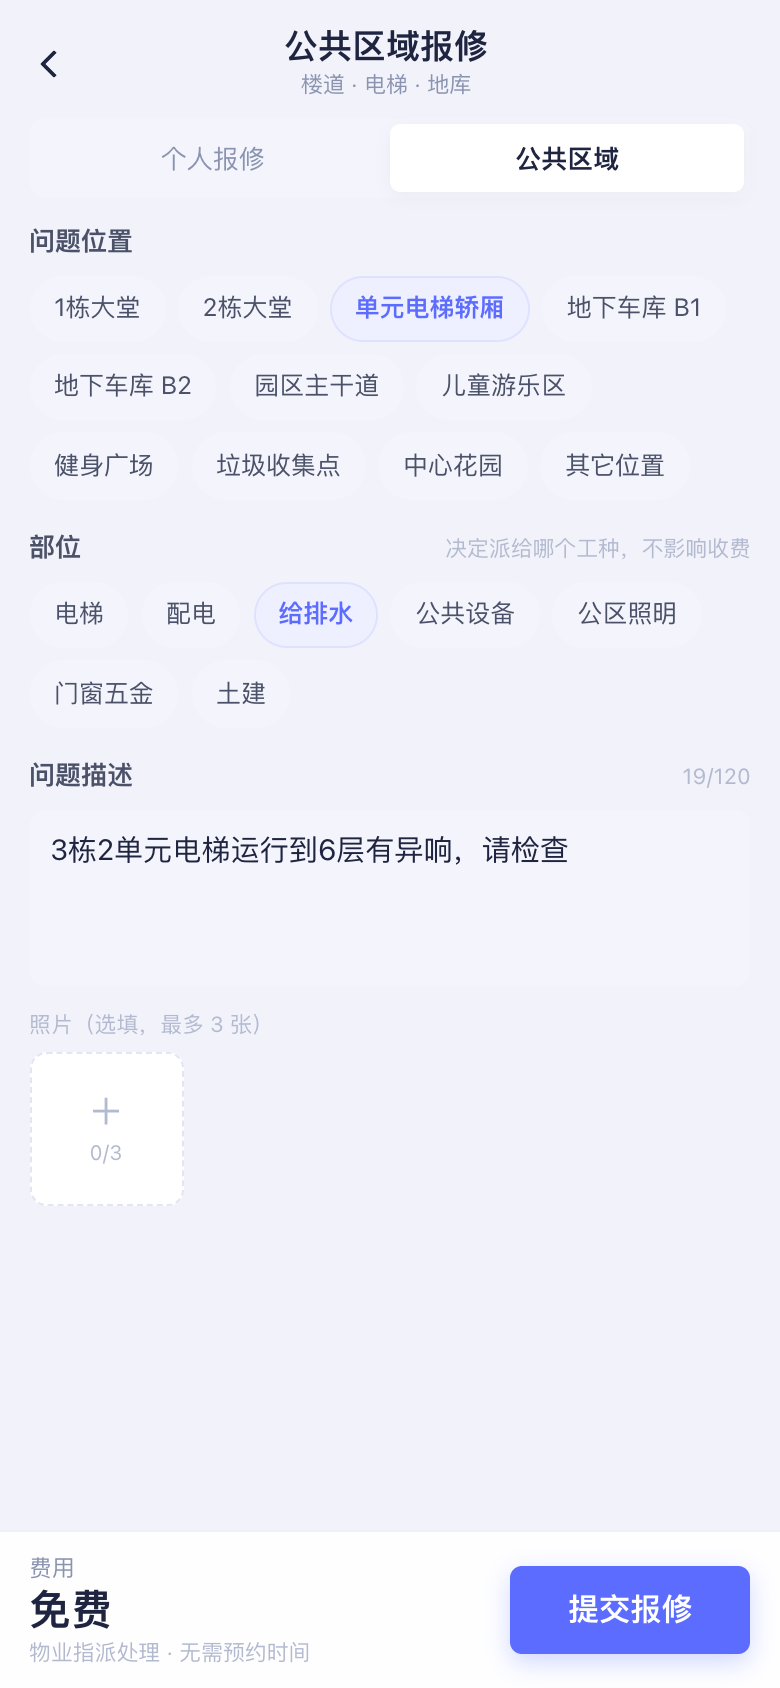
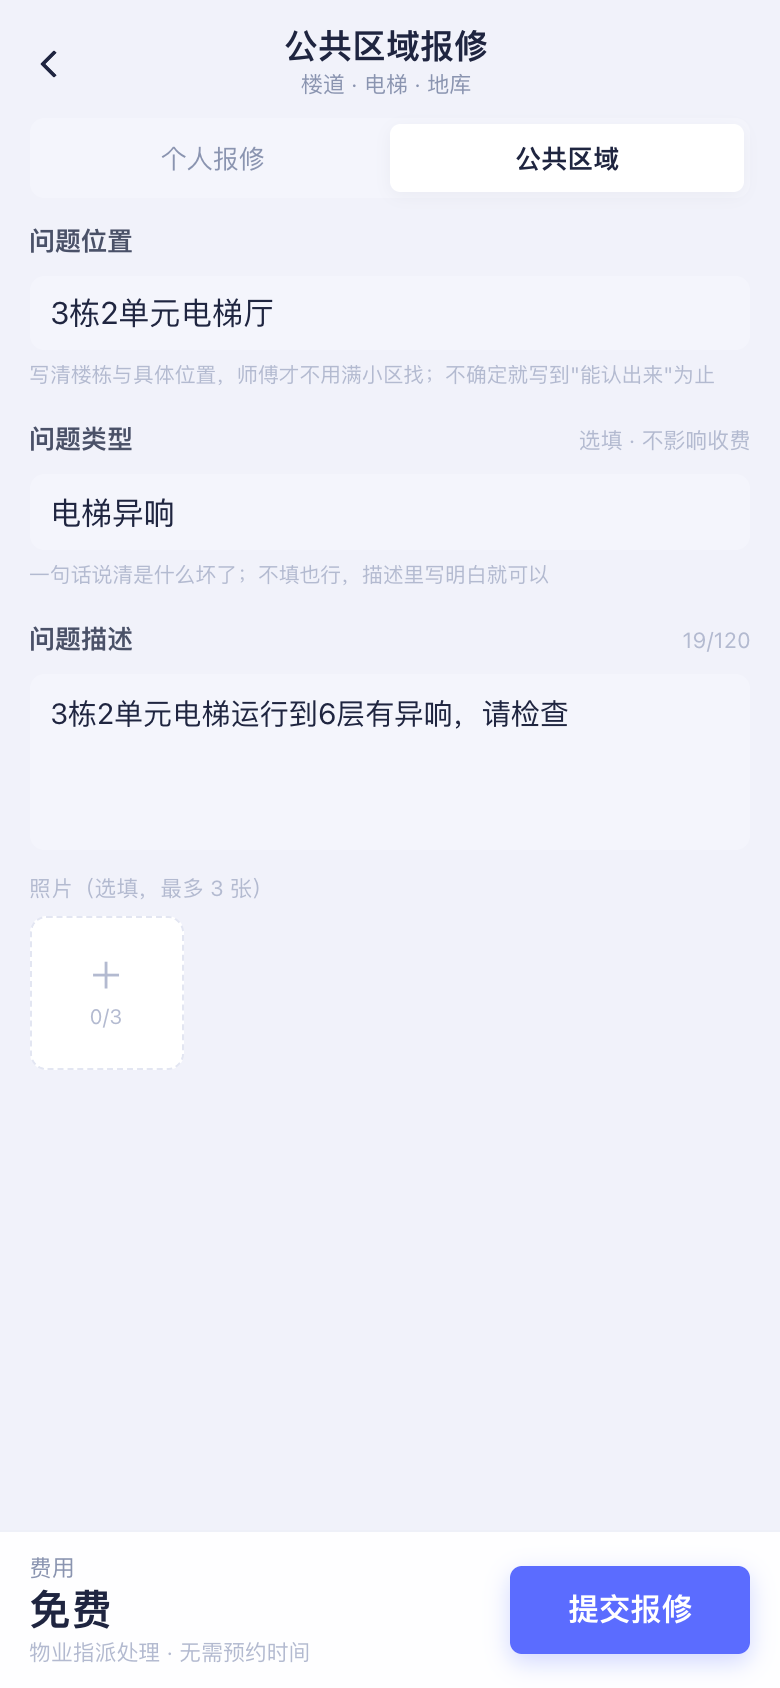
feat(报修): 公共区域改成纯表单 · 位置与问题类型都不再锁死
上一版给公共线做了两组快捷选项（位置 10 个 chip + 部位 7 个 chip + 「其它位置」）。
用下来是反的：**快捷没有省事，反而把填写锁死了**。

- 位置固定 10 个：小区角落远不止 10 个，业主找不到就得先点「其它位置」再输一遍，
  比直接打字多一步；
- 部位固定 7 个枚举：业主不是专业人士，不会把"电梯运行到 6 层会顿一下"翻译成「电梯」，
  勉强选一个等于给后台一个假分类。

现在就是一张表：**问题位置（输入）→ 问题类型（输入，选填）→ 问题描述 → 照片**。
`PUBLIC_PLACES` 常量已删除。

**契约口径随之调整**：`category` 从「部位枚举」改成「业主写的原文」。
理由是分工 —— 业主写他看到的，**归类是前台受理的活**。

代价写清楚，不藏：`category` 不是标准部位时，后台 `laborPointWeight()` 取不到，
落默认 1.0。**宁可权重偏低，也不要一个假分类。** 传标准部位仍然有效（权重能取到）。

服务端三条：类型 ≤20 字（超了 422）、空值落「公共设备」、**不做白名单校验**。
用例扩到 11 个断言：原文保存、不填落公共设备、超 20 字 422、标准部位原样保留、
以及个人单缺价目仍 422。

详情页补一处：公共单没有价目项，原来 `houseName · priceName` 只剩位置，
业主填的类型看不到。现在显示 `· {{ category }}`。

顺手修一条**只在 dev 红的**冒烟断言：「我的页显示认证身份 / 七格入口齐全」在 goto 后
立刻断言，dev 现编译模块 900ms 不够（dist 一直够，所以容易被当成环境问题放过）。
改成 `waitText`。

批次: 无
影响: 04-契约, 06-业主端小程序, 02-原型设计
验证: 04 test 287/287 · 契约 308 路径/354 接口/388 schema/0 悬空 · 06 check:data · build:h5 · smoke dev 99/99 + dist 99/99 · 公共线走查 12/12（api-g-47~49）
BREAKING: 无

diff --git a/06-业主端小程序/src/pages/repair/create.vue b/06-业主端小程序/src/pages/repair/create.vue
@@ -2,14 +2,18 @@
   我要报修（个人 / 公共两条线）
   ------------------------------------------------------------
   个人：选房 → 价目项目（下单即见价）→ 1 小时时段 → 描述 + 照片 → 提交并支付
-  公共：选位置（快捷 + 可手填）→ 部位 → 描述 + 照片 → 提交（免费，不支付）
+  公共：位置 → 问题类型 → 描述 + 照片 → 提交（免费，不支付）
 
   两条线**要的东西不一样**，2026-11-11 按实际数据与业务分了家：
     · 公共区域维修由物业出人出料，没有价目项 —— 不再让业主先挑一个收费项目再免费处理；
       也不要求预约时段（样例里 75 张公共单没有一张有预约时间）。
-    · 但**部位**要留（电梯 / 配电 / 给排水…）：它决定派给哪个工种，
-      也是工时积分的权重来源。部位不是"项目"，选了不影响收费。
-    · 位置除了 10 个高频快捷项，必须能自己填 —— 小区总有列表没覆盖的角落（消防通道、屋面）。
+
+  2026-11-12 又改了一次：**位置与类型都改成纯输入框**，取消快捷 chip。
+  原因不是"快捷不好看"，而是它把两件事锁死了：
+    · 位置固定 10 个 —— 小区里的角落远不止 10 个，业主找不到就只能编，写进「其它位置」
+      反而多一步；不如一进来就是一个空输入框。
+    · 类型固定 7 个「部位」—— 业主不是专业人士，不会把"电梯有异响"翻译成「电梯」。
+      让他自己写，前台受理时归类，这才是真实分工（归类本来就是物业的活）。
 
   个人项目按分类折叠 + 搜索：现在只有 10 项，但项目是会加的，
   一次摊开几十项就没法选了。默认展开前 3 类，搜索时全部展开。
@@ -34,39 +38,33 @@
           </view>
         </view>
         <template v-else>
-          <view class="rc__places">
-            <view
-              v-for="p in PUBLIC_PLACES"
-              :key="p"
-              class="chip"
-              :class="{ 'is-on': !useOther && placePick === p }"
-              @tap="pickPlace(p)"
-            ><text>{{ p }}</text></view>
-            <view id="place-other" class="chip" :class="{ 'is-on': useOther }" @tap="pickOther"><text>其它位置</text></view>
-          </view>
-          <view v-if="useOther" class="rc__other">
-            <input
-              id="place-input"
-              v-model="placeOther"
-              class="field__input field__input--boxed"
-              maxlength="40"
-              placeholder="例如：5栋消防通道 / 中心花园东侧廊架"
-              placeholder-class="ph"
-            />
-            <text class="rc__other-tip">写清楚楼栋与具体位置，师傅才不用满小区找</text>
-          </view>
+          <input
+            id="place-input"
+            v-model="place"
+            class="field__input field__input--boxed"
+            maxlength="40"
+            placeholder="例如：3栋2单元电梯厅 / 地下车库 B1 东侧"
+            placeholder-class="ph"
+          />
+          <text class="rc__hint">写清楼栋与具体位置，师傅才不用满小区找；不确定就写到"能认出来"为止</text>
         </template>
       </view>
 
-      <!-- 部位（公共）：不影响收费，只决定派给谁 -->
+      <!-- 问题类型（公共）：自由填写，前台受理时归类 -->
       <view v-if="isPublic" class="rc__sec">
         <view class="rc__k-row">
-          <text class="rc__k">部位</text>
-          <text class="rc__k-d">决定派给哪个工种，不影响收费</text>
+          <text class="rc__k">问题类型</text>
+          <text class="rc__k-d">选填 · 不影响收费</text>
         </view>
-        <view class="rc__places">
-          <view v-for="c in PUBLIC_PARTS" :key="c" class="chip" :class="{ 'is-on': part === c }" @tap="part = c"><text>{{ c }}</text></view>
-        </view>
+        <input
+          id="issue-input"
+          v-model="issue"
+          class="field__input field__input--boxed"
+          maxlength="20"
+          placeholder="例如：电梯异响 / 路灯不亮 / 地砖破损"
+          placeholder-class="ph"
+        />
+        <text class="rc__hint">一句话说清是什么坏了；不填也行，描述里写明白就可以</text>
       </view>
 
       <!-- 项目（个人）：分类折叠 + 搜索 -->
@@ -168,18 +166,11 @@ import Bar from '@/components/Bar.vue'
 import Empty from '@/components/Empty.vue'
 import PhotoPicker from '@/components/PhotoPicker.vue'
 import { orderFee, priceGroups, priceItems } from '@/api/pricing'
-import { PUBLIC_PLACES, activeHouse, createOrder, createOrderPay } from '@/api/mp'
+import { activeHouse, createOrder, createOrderPay } from '@/api/mp'
 import { DEMO } from '@/config/demo'
 import { money } from '@/utils/format'
 import { go, toast, toastErr } from '@/utils/ui'
 import { gateOwner } from '@/utils/guard'
-
-/**
- * 公共报修的**部位**：与后台工单的 category 同一套枚举。
- * 它不是价目分类 —— 派单按它找工种，工时积分按它取权重（电梯 1.5 / 配电 1.3 / 给排水 1.2）。
- * 不选默认「公共设备」，保证落库一定有值，不至于让后台在"未分类"里堆一堆单。
- */
-const PUBLIC_PARTS = ['电梯', '配电', '给排水', '公共设备', '公区照明', '门窗五金', '土建']
 
 const groups = priceGroups()
 const isPublic = ref(false)
@@ -189,12 +180,9 @@ const photos = ref([])
 const day = ref(DEMO.today)
 const slot = ref('09:00-10:00')
 
-/* 位置：快捷项与手填二选一，最终取 finalPlace */
-const placePick = ref(PUBLIC_PLACES[0])
-const useOther = ref(false)
-const placeOther = ref('')
-/* 部位默认「公共设备」：既保证落库有值，又不会被当成"必须选一项"的负担 */
-const part = ref('公共设备')
+/* 公共报修：位置与问题类型都是自由填写（2026-11-12 取消快捷选项） */
+const place = ref('')
+const issue = ref('')
 
 /* 个人项目的折叠与搜索 */
 const kw = ref('')
@@ -205,8 +193,6 @@ const house = computed(() => activeHouse())
 /* priceItems() 而不是常量：接口模式下价目来自服务端快照，模块加载时还是空的 */
 const sel = computed(() => priceItems().find(i => i.code === code.value) || null)
 const fee = computed(() => orderFee(sel.value, 1))
-
-const finalPlace = computed(() => (useOther.value ? placeOther.value.trim() : placePick.value))
 
 /** 搜索时不分折叠状态，一律展开 —— 搜到了还要再点一次展开，等于没搜 */
 const shownGroups = computed(() => {
@@ -219,7 +205,7 @@ const shownGroups = computed(() => {
 const isOpen = cat => (kw.value.trim() ? true : openCats.value.has(cat))
 
 const canSubmit = computed(() => {
-  if (isPublic.value) return !!finalPlace.value && !!desc.value.trim()
+  if (isPublic.value) return !!place.value.trim() && !!desc.value.trim()
   return !!sel.value && !!house.value
 })
 const days = computed(() => {
@@ -244,14 +230,6 @@ function setScope(s) {
   code.value = ''
 }
 
-function pickPlace(p) {
-  useOther.value = false
-  placePick.value = p
-}
-function pickOther() {
-  useOther.value = true
-}
-
 function toggleCat(cat) {
   if (kw.value.trim()) return
   const next = new Set(openCats.value)
@@ -266,14 +244,15 @@ function pick(it) {
 
 async function submit() {
   if (isPublic.value) {
-    if (!finalPlace.value) return toastErr('请选择或填写问题位置')
+    if (!place.value.trim()) return toastErr('请填写问题位置')
     if (!desc.value.trim()) return toastErr('写一句问题描述，师傅好带工具')
     try {
       const wo = await createOrder({
         scope: 'public',
-        place: finalPlace.value,
-        /* 部位不是"项目"：它只决定派给谁，不影响收费 */
-        category: part.value,
+        place: place.value.trim(),
+        /* 业主自己写的类型原文，前台受理时归类；不填按「公共设备」——
+           不再让业主义务把"电梯有异响"翻译成「电梯」 */
+        category: issue.value.trim() || '公共设备',
         description: desc.value.trim(),
         photos: photos.value.map(p => ({ kind: p.kind, at: p.at, note: p.note || '' }))
       })
@@ -318,9 +297,8 @@ async function submit() {
 .rc__k-row { display: flex; align-items: baseline; justify-content: space-between; margin-bottom: 14rpx; }
 .rc__k-row .rc__k { margin-bottom: 0; }
 .rc__k-d { font-size: 21rpx; color: var(--biz-text-4); }
-.rc__places { display: flex; flex-wrap: wrap; gap: 12rpx; }
-.rc__other { margin-top: 16rpx; }
-.rc__other-tip { display: block; margin-top: 8rpx; font-size: 20rpx; color: var(--biz-text-4); }
+/* 输入框下方的一句提示（位置 / 问题类型两处共用） */
+.rc__hint { display: block; margin-top: 10rpx; font-size: 20rpx; line-height: 1.5; color: var(--biz-text-4); }
 .rc__search { margin-bottom: 14rpx; }
 .rc__group + .rc__group { margin-top: 6rpx; }
 .rc__group-hd { display: flex; align-items: center; gap: 12rpx; padding: 16rpx 4rpx; border-bottom: 1rpx solid var(--biz-border-light); }

diff --git a/06-业主端小程序/src/pages/repair/detail.vue b/06-业主端小程序/src/pages/repair/detail.vue
@@ -38,6 +38,11 @@
           <view class="wd__meta">
             <text class="wd__m">{{ wo.houseName }}</text>
             <text class="wd__m" v-if="wo.priceCode">· {{ wo.priceName }}</text>
+            <!--
+              公共单没有价目项，但有业主自己写的「问题类型」原文（category）。
+              不显示出来，业主会以为自己填的那句话丢了；师傅也少一条判断依据。
+            -->
+            <text v-else-if="wo.isPublic && wo.category" class="wd__m">· {{ wo.category }}</text>
           </view>
         </view>
 

diff --git a/06-业主端小程序/src/api/mp.js b/06-业主端小程序/src/api/mp.js
@@ -941,6 +941,6 @@ export function timelineOf(wo) {
 }
 
 /** 公共区域报修的候选位置（园区固定设施；后续可挪到后台配置） */
-export const PUBLIC_PLACES = ['1栋大堂', '2栋大堂', '单元电梯轿厢', '地下车库 B1', '地下车库 B2', '园区主干道', '儿童游乐区', '健身广场', '垃圾收集点', '中心花园']
+/* 2026-11-12：公共报修的位置改成纯输入框，快捷位置清单已删除（没有调用点了） */
 
 export { ROLE }

diff --git a/04-契约/README.md b/04-契约/README.md
@@ -947,16 +947,24 @@ VITE_API_MODE=http VITE_API_BASE=http://127.0.0.1:4010 npx vite --port 5175
 
 - `priceCode`、`appointDate`、`appointSlot` → 只在 `scope=personal` 时要求；
 - public 改要求 `place`（必填、≤40 字、**允许自由文本**）+ `description`；
-- public 新增可选 `category`（部位），不传按「公共设备」处理。
+- public 新增可选 `category`，不传按「公共设备」处理。
 
-**为什么部位不一起砍掉**：它不是"项目"，是**派给谁 + 算多少分**：
+**`category` 的语义在 2026-11-12 又改了一次：从「部位枚举」改成「业主写的原文」。**
 
-- 后台派单按 `category` 找工种（电梯维保 / 电工 / 水暖）；
-- 工时积分 `points = hours × 10 × weight`，权重就取部位（电梯 1.5 / 公共设备 1.4 /
-  配电 1.3 / 给排水与道闸 1.2 / 土建 1.1 / 照明门窗 1.0）。
+上一版要求业主端给一行 7 个「部位」chip（电梯 / 配电 / 给排水…），理由是它决定
+派给谁、也算工时积分权重（电梯 1.5 / 配电 1.3 / 土建 1.1）。实际用下来是反的：
+**部位是派单口径，不是业主的语言** —— 业主不会把"电梯运行到 6 层会顿一下"翻译成「电梯」，
+勉强选一个只会得到一个假分类，而假分类比没分类更难纠正。
 
-没有部位，公共单会沉进"未分类"，派单靠人肉分，积分也算不出来。
-所以业主端保留一行 7 个部位 chip，并写明"不影响收费" —— 它确实不影响。
+所以现在：业主端两个输入框（位置、问题类型），`category` 存原文；**归类是前台受理的活**。
+
+代价要写清，不能装作没有：
+
+- `category` 不是标准部位时，`laborPointWeight()` 取不到，落默认 **1.0**；
+- 传标准部位仍然有效（那种情况权重能直接取到）；
+- 后台改分类是改一个字符串，不用迁移。
+
+校验只剩三条：长度 ≤20、空值落「公共设备」、**不做白名单**。
 
 服务端同步改了两处容易漏的：
 
@@ -966,8 +974,9 @@ VITE_API_MODE=http VITE_API_BASE=http://127.0.0.1:4010 npx vite --port 5175
    `priceQty = 0` —— 与后台公共单的既有形态一致，05 与 03 不用为它加特例。
 
 用例 `公共报修：只给位置与描述就能下单` 钉住九件事：不传价目能下单、价目字段为空、
-免费、不生成支付单、部位落库、标题不含项目名、位置必填且限长、
+免费、不生成支付单、类型原文落库、标题不含项目名、位置必填且限长、
 **以及个人单缺价目仍然 422**（放宽 public ≠ 两条线都不校验）。
+2026-11-12 又补三条：不填类型落「公共设备」、类型超 20 字 422、传标准部位原样保留。
 
 ### 11.17 预存账户与商业账户：两笔钱，两个入口（2026-11-11）
 
